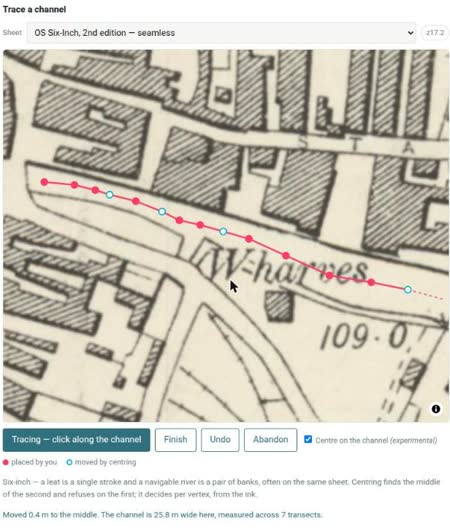
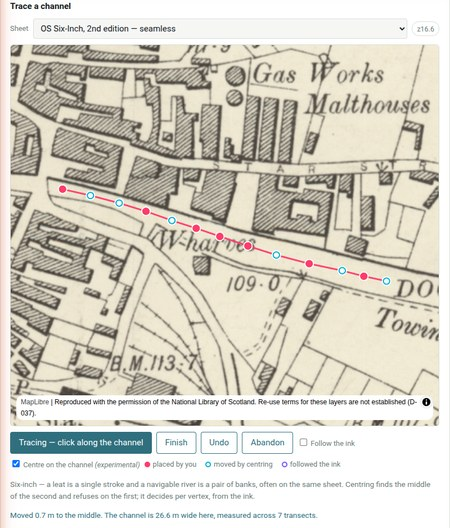
Re-shoot the Lea at Ware with the casing, and correct the two things the caption now got wrong
The figure predated `56e0909`, so it showed the markers without their white ring — the one
thing about the display that had just changed. Re-shot on the same reach, same sheet, from
the seven clicks already recorded in the phase 3 pair, subdivided to thirteen.

Two claims in the caption stopped being true and are corrected rather than left standing:

- **"Most vertices are left where the hand put them; a few are moved."** This trace is
  seven placed to six moved. Denser clicking gives centring more chances to fire, so the
  ratio is a property of how it was traced and not a constant of the tool. The argument
  the caption makes from the split is unaffected — every vertex moved would still be a
  tool that had stopped discriminating — so the numbers change and the reasoning does not.
- **"Traced by a contributor, not staged for the photograph."** It was not. I replayed
  recorded clicks. The claim it was making is still worth making, so it now says what
  actually happened: the clicks are the ones already in the log, replayed rather than
  composed, and the measurement under the map is the tool's own.

Re-shooting a figure and leaving its caption alone is how a page ends up asserting
something no reader can check against the picture above it, which this site has already
had to fix twice in the other direction.

The white ring earns its mention: the run of vertices crossing the lettering of "Wharves"
[…]

diff --git a/docs/tracer.md b/docs/tracer.md
@@ -132,13 +132,16 @@ to what a person indicated; it does not go looking.
 <figure class="sheet-figure narrow">
   <div class="frames">
     <img src="{{ '/assets/maps/tracer-lea-at-ware.jpg' | relative_url }}"
-         alt="The tracer on the six-inch second edition at Ware: a traced line along the Lea past the wharves, most of its vertices drawn solid where a hand placed them and a few drawn hollow where the tool moved them to the middle of the channel.">
+         alt="The tracer on the six-inch second edition at Ware: a traced line along the Lea past the wharves, seven of its vertices drawn solid where a hand placed them and six drawn hollow where the tool moved them to the middle of the channel, each ringed in white so it stays legible where it falls on printed ink.">
   </div>
   <figcaption><strong>Both operations, in one line, chosen vertex by vertex.</strong> The Lea
-  at Ware past the wharves, on the six-inch. <strong>Most vertices are left where the hand put
-  them</strong>; a few are moved to the middle and drawn hollow. That ratio is the honest part
-  — a frame in which every vertex had been moved would be a frame of a tool that had stopped
-  discriminating. Traced by a contributor, not staged for the photograph.
+  at Ware past the wharves, on the six-inch. <strong>Seven vertices are left where the hand put
+  them; six are moved to the middle and drawn hollow.</strong> That split is the honest part —
+  a frame in which every vertex had been moved would be a frame of a tool that had stopped
+  discriminating. The clicks are the ones already recorded in the paired traces, replayed
+  rather than composed for the photograph, and the line under the map is the tool's own
+  account of what it just did. Every marker carries a white ring, which is why the ones
+  crossing the lettering of <em>Wharves</em> can still be read.
   <span class="credit">Reproduced with the permission of the National Library of
   Scotland.</span></figcaption>
 </figure>
